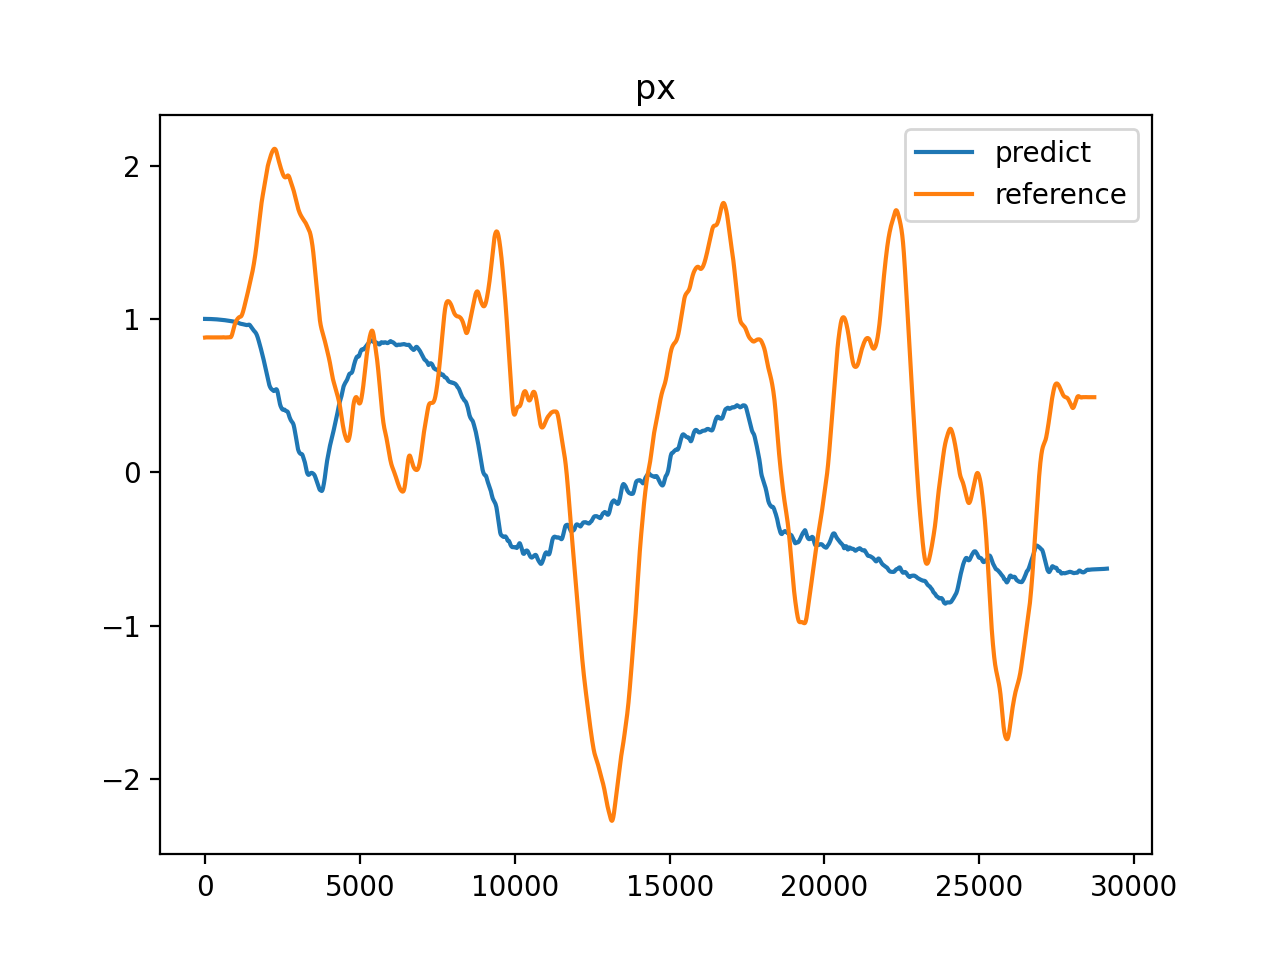
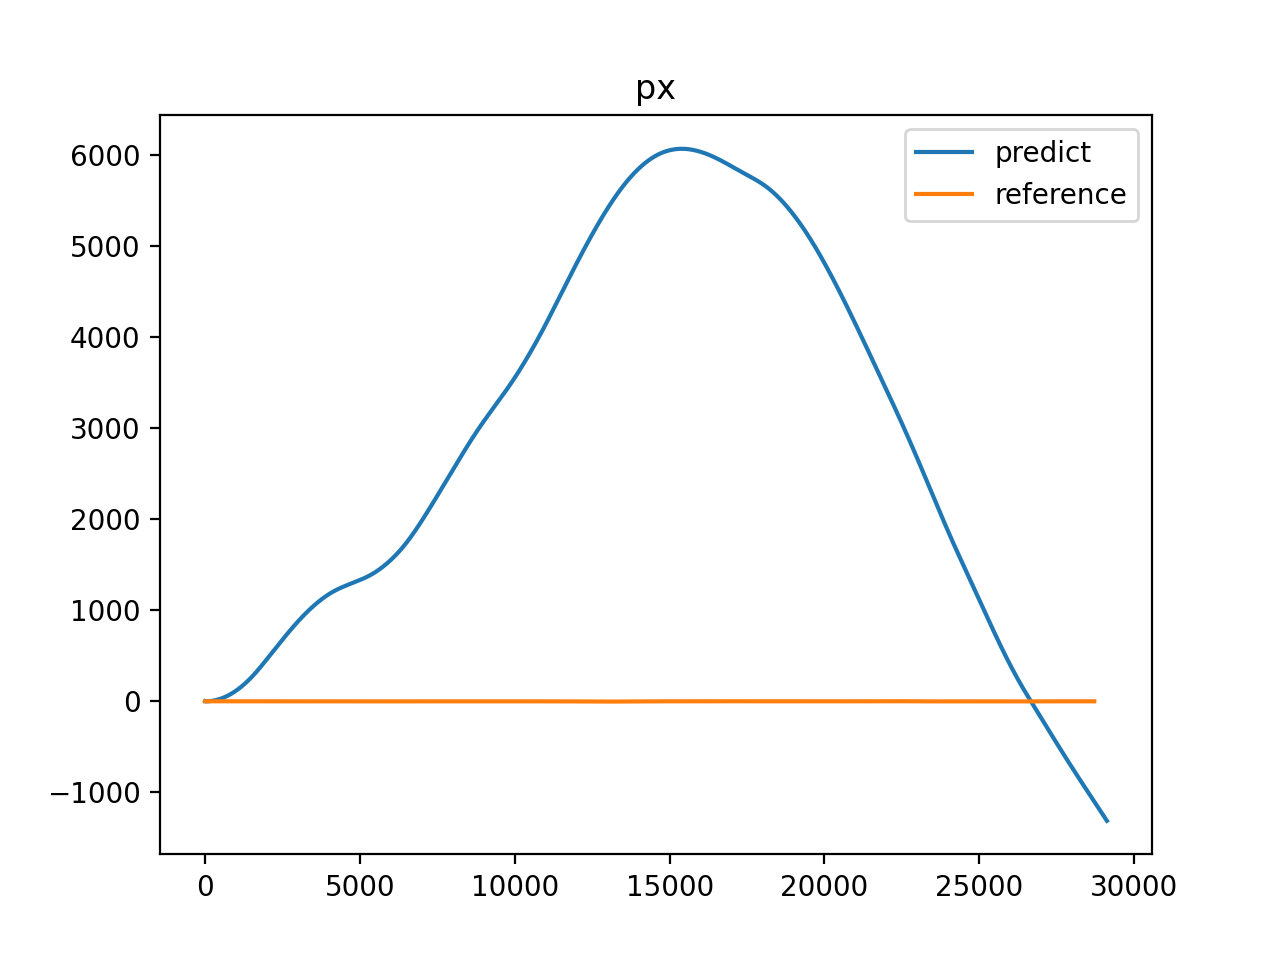
checkpoint: Sucessfull plot, not good results

diff --git a/testes/scikinematics/try-scikit.py b/testes/scikinematics/try-scikit.py
@@ -56,6 +56,11 @@ Runs the experiment itself.
     initial_position = dataset[0, 1:4]
     initial_orientation = dataset[0, 4:8]
 
+    timestamp_imu = pd.read_csv("dataset-files/V1_01_easy/mav0/imu0/data.csv").to_numpy()[:, 0:1]
+    timestamp_dados_de_saida = pd.read_csv("dataset-files/V1_01_easy/mav0/state_groundtruth_estimate0/data.csv").to_numpy()[:, 0:1]
+
+    _, index = find_nearest(timestamp_dados_de_saida, timestamp_imu[0])
+
     rotation_matrix = \
         axis_angle_into_rotation_matrix(
             *quaternion_into_axis_angle(
@@ -75,7 +80,7 @@ Runs the experiment itself.
     dimensoes = ["px", "py", "pz", "qw", "qx", "qy", "qz"]
     for i, dim_name in enumerate(dimensoes):
         plt.close()
-        plt.plot(np.hstack((my_sensor.quat, my_sensor.pos))[:, i])
+        plt.plot(np.hstack((my_sensor.pos, my_sensor.quat))[:, i])
         plt.plot(range(dados_de_saida.shape[0]), dados_de_saida[:, i])
         plt.legend(['predict', 'reference'], loc='upper right')
         plt.title(dim_name)

diff --git a/testes/preintegration/try_real_dataset.py b/testes/preintegration/try_real_dataset.py
@@ -16,10 +16,6 @@ Runs the experiment itself.
 
     model = EachSamplePreintegrationModule()
 
-    n_steps = 10
-    ones = torch.ones(1, n_steps, 1)
-    zeros = torch.zeros(1, n_steps, 1)
-
     dados_de_entrada_imu = read_csv("dataset-files/V1_01_easy/mav0/imu0/data.csv").to_numpy()[1000:, 1:]
     dados_de_saida = read_csv("dataset-files/V1_01_easy/mav0/state_groundtruth_estimate0/data.csv").to_numpy()[:, 1:]
 
